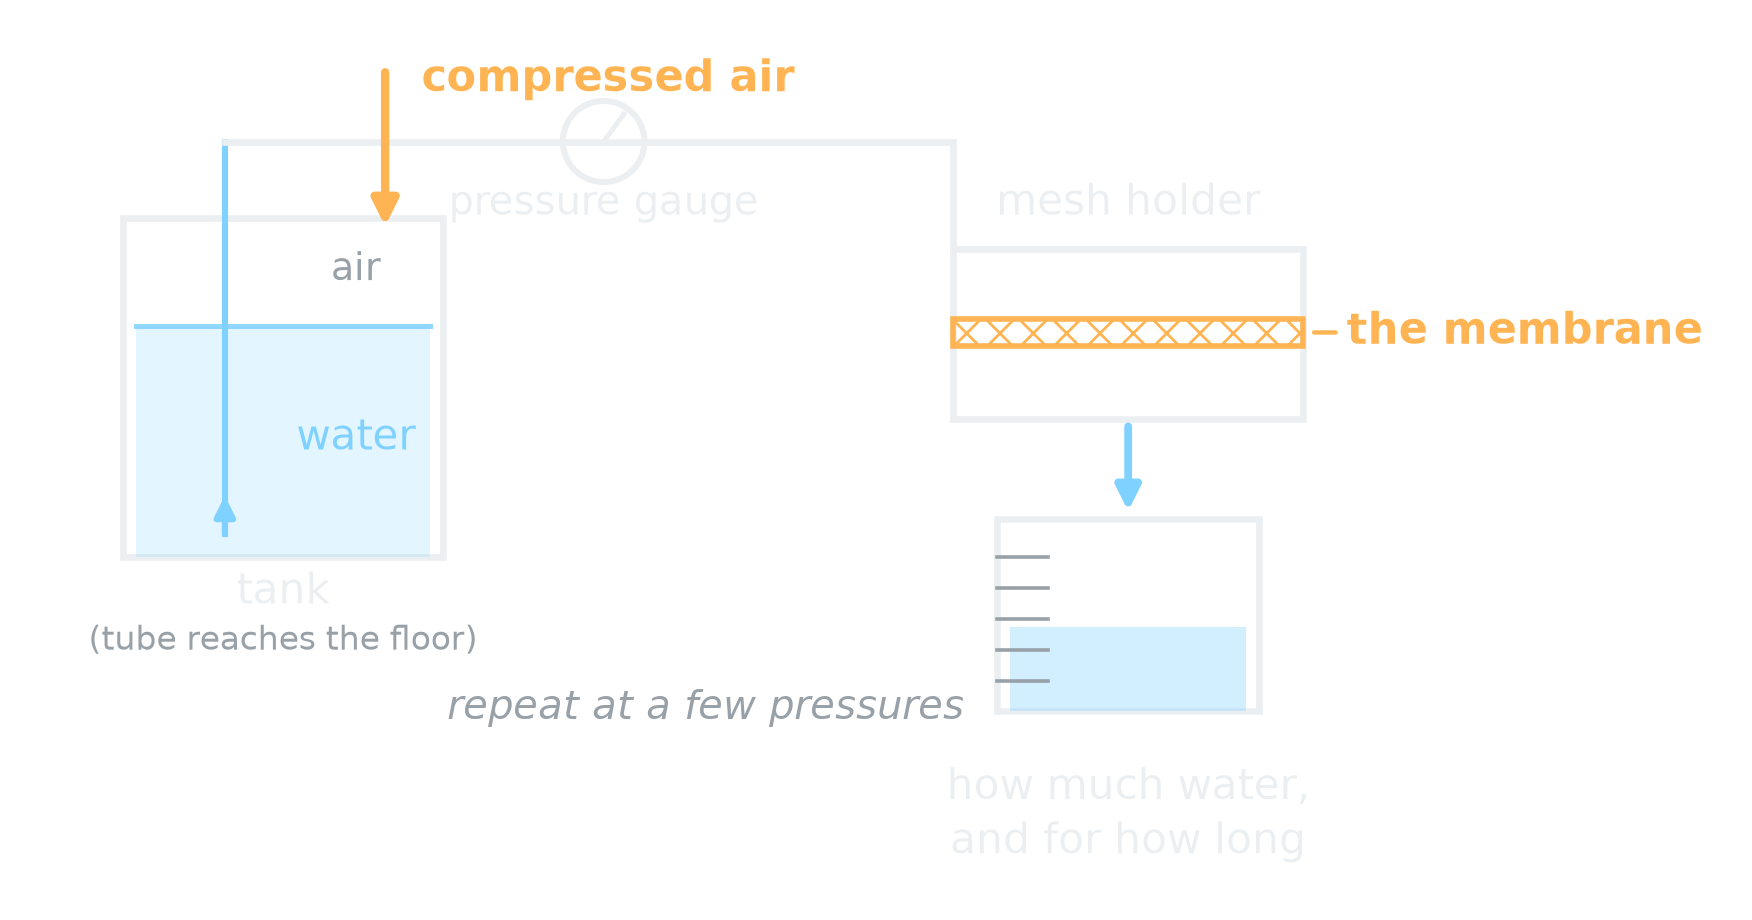
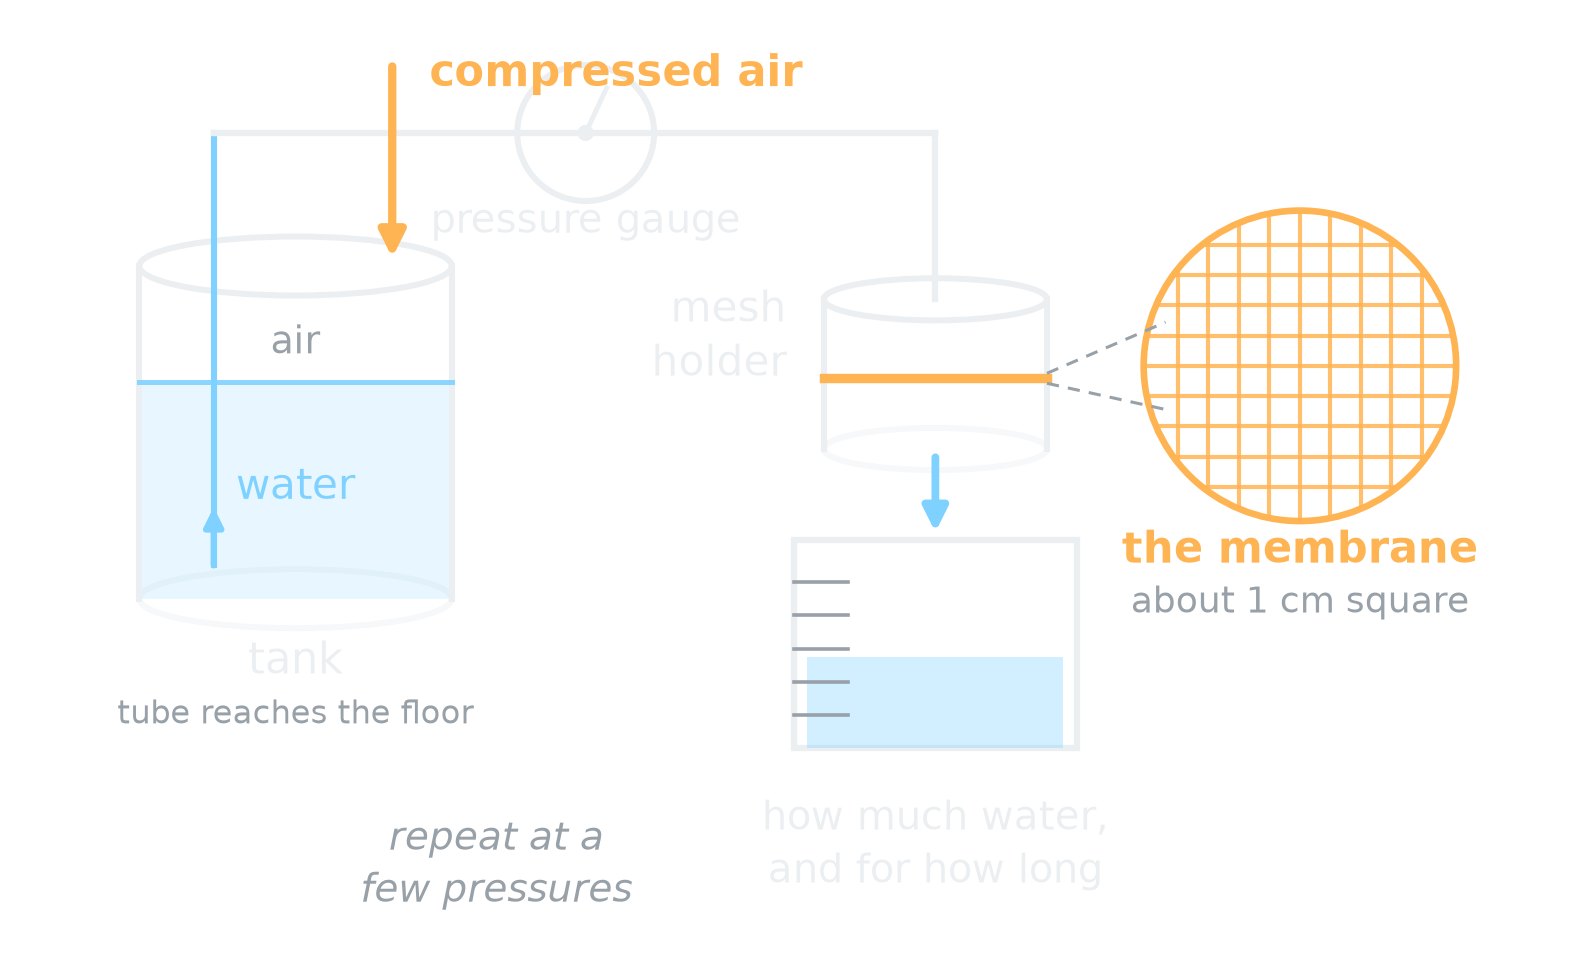
docs(talk): cylindrical holder, and zoom the specimen — it is only ~1 cm square
Adrián at the bench: the mesh holder is cylindrical, and the specimen is about
a centimetre square. Both mattered. The holder was drawn as a box, and the
membrane spanned its full width — at true scale it is a speck, so drawing it
full-width silently misrepresented the thing the whole experiment is about.

- Tank and holder are now cylinders (side view: body plus elliptical caps,
  the far cap dimmed for depth), with a helper that corrects for the axes not
  being equal-aspect — a plain Circle renders as an ellipse here.
- The specimen is a thin band at true proportion, with a zoom callout showing
  the weave magnified and 'about 1 cm square'. How small it is, is part of why
  the measurement is delicate, so it is worth a beat of the audience's
  attention rather than being hidden.

Caps started at ~1/3 of the width and swallowed the 'air' label; trimmed to
~1/5 and moved the holder label off the downpipe.

diff --git a/docs/talk/gen_talk_figs.py b/docs/talk/gen_talk_figs.py
@@ -217,87 +217,120 @@ def fig_system():
 # only — no electronics, no PID (that is the system figure's job): pressure in,
 # membrane, water out, measured over a known time.
 def fig_test_concept():
-    """THE ACTUAL PLUMBING, per Adrián at the bench — not one vessel with a
-    membrane inside it (two earlier drafts got that wrong, including one drawn
-    faithfully from the paper's own wording):
+    """The real flow path, per Adrián at the bench:
 
         air hose -> water TANK, air injected above the water
                     a dip tube runs from the top down to the tank floor
                  -> line with the pressure GAUGE
-                 -> MESH HOLDER, where the specimen actually lives
+                 -> CYLINDRICAL mesh holder; the specimen is only ~1 cm square
                  -> graduated cylinder
 
-    The tank and the holder are separate pieces joined by tubing. Left to right,
-    so it reads in the order the water travels."""
-    fig, ax = plt.subplots(figsize=(9.4, 5.0))
+    The tank and the holder are separate pieces joined by tubing. The specimen
+    gets a zoom callout because at holder scale it is nearly invisible — and how
+    small it is, is part of why the measurement is delicate."""
+    from matplotlib.patches import Ellipse
+
+    FIGW, FIGH = 9.6, 5.4
+    fig, ax = plt.subplots(figsize=(FIGW, FIGH))
     ax.set_xlim(0, 100)
     ax.set_ylim(0, 100)
     ax.axis("off")
+    ASPECT = FIGW / FIGH          # to make round things round on unequal axes
 
-    LINE_Y = 88                      # the tube running across the top
+    def cylinder(x, w, y0, y1, ec=INK, lw=2.2, cap=0.19):
+        """Vertical cylinder seen from the side: body + elliptical caps."""
+        eh = w * (FIGW / (FIGH * 100)) * 100 * cap     # cap height in data units
+        ax.plot([x, x], [y0, y1], color=ec, lw=lw)
+        ax.plot([x + w, x + w], [y0, y1], color=ec, lw=lw)
+        ax.add_patch(Ellipse((x + w / 2, y1), w, eh, fill=False, ec=ec, lw=lw))
+        ax.add_patch(Ellipse((x + w / 2, y0), w, eh, fill=False, ec=ec, lw=lw,
+                             alpha=0.45))
+        return eh
+
+    LINE_Y = 90
 
     # ---------------- water tank ----------------
-    TX0, TX1, TY0, TY1 = 5, 27, 34, 78
-    ax.add_patch(plt.Rectangle((TX0, TY0), TX1 - TX0, TY1 - TY0,
-                               fill=False, ec=INK, lw=2.4))
-    ax.add_patch(plt.Rectangle((TX0 + 0.9, TY0), TX1 - TX0 - 1.8, 30,
-                               fc=DATA, alpha=0.22, lw=0))
-    ax.plot([TX0 + 0.9, TX1 - 0.9], [TY0 + 30, TY0 + 30], color=DATA, lw=1.8,
-            alpha=0.85)
-    ax.text(21, 70, "air", fontsize=13.5, color=DIM, ha="center")
-    ax.text(21, 48, "water", fontsize=15, color=DATA, ha="center")
-    ax.text(16, 28, "tank", fontsize=15, color=INK, ha="center")
-    ax.text(16, 22, "(tube reaches the floor)", fontsize=12, color=DIM,
-            ha="center")
+    TX, TW, TY0, TY1 = 6, 21, 34, 74
+    cylinder(TX, TW, TY0, TY1)
+    ax.add_patch(plt.Rectangle((TX, TY0), TW, 26, fc=DATA, alpha=0.18, lw=0))
+    ax.add_patch(Ellipse((TX + TW / 2, TY0 + 26), TW, TW * 0.055 * 100 * 0.30 / 100 * 100 * 0,
+                         fill=False, lw=0))                      # (no cap on the water line)
+    ax.plot([TX, TX + TW], [TY0 + 26, TY0 + 26], color=DATA, lw=1.8, alpha=0.9)
+    ax.text(TX + TW / 2, 63.5, "air", fontsize=13.5, color=DIM, ha="center")
+    ax.text(TX + TW / 2, 46, "water", fontsize=15, color=DATA, ha="center")
+    ax.text(TX + TW / 2, 25, "tank", fontsize=15.5, color=INK, ha="center")
 
-    # air injected in
-    ax.annotate("", xy=(23, TY1 - 1), xytext=(23, 97),
+    ax.annotate("", xy=(TX + TW - 4, TY1 + 1), xytext=(TX + TW - 4, 98),
                 arrowprops=dict(arrowstyle="-|>", color=WARN, lw=3.0,
                                 shrinkA=0, shrinkB=0, mutation_scale=19))
-    ax.text(25.5, 96, "compressed air", fontsize=15.5, color=WARN,
+    ax.text(TX + TW - 1.5, 97, "compressed air", fontsize=15.5, color=WARN,
             fontweight="bold", va="center")
 
-    # dip tube: down to the floor, so pressure pushes water UP and out
-    ax.plot([12, 12], [LINE_Y, TY0 + 3], color=DATA, lw=2.2)
-    ax.annotate("", xy=(12, TY0 + 8), xytext=(12, TY0 + 3),
+    # dip tube: reaches the floor, so the air pushes water up and out
+    DIP = TX + 5
+    ax.plot([DIP, DIP], [LINE_Y, TY0 + 4], color=DATA, lw=2.2)
+    ax.annotate("", xy=(DIP, TY0 + 11), xytext=(DIP, TY0 + 4),
                 arrowprops=dict(arrowstyle="-|>", color=DATA, lw=2.2,
-                                shrinkA=0, shrinkB=0, mutation_scale=15))
-    # ---------------- line across, with the gauge ----------------
-    ax.plot([12, 62], [LINE_Y, LINE_Y], color=INK, lw=2.4)
-    from matplotlib.patches import Ellipse          # axes are not equal-aspect
-    ax.add_patch(Ellipse((38, LINE_Y), 5.6, 5.6 * (9.4 / 5.0),
-                         fill=False, ec=INK, lw=2.2))
-    ax.plot([38, 39.4], [LINE_Y, LINE_Y + 3.6], color=INK, lw=1.8)
-    ax.text(38, LINE_Y - 9.5, "pressure gauge", fontsize=14.5, color=INK,
+                                shrinkA=0, shrinkB=0, mutation_scale=14))
+    ax.text(TX + TW / 2, 19, "tube reaches the floor", fontsize=11.5,
+            color=DIM, ha="center")
+
+    # ---------------- line + gauge ----------------
+    HX, HW = 52, 15                                   # holder geometry
+    ax.plot([DIP, HX + HW / 2], [LINE_Y, LINE_Y], color=INK, lw=2.3)
+    GR = 4.6
+    ax.add_patch(Ellipse((36, LINE_Y), GR * 2, GR * 2 * ASPECT,
+                         fc="none", ec=INK, lw=2.2))
+    ax.plot([36, 37.4], [LINE_Y, LINE_Y + 5.4], color=INK, lw=1.8)
+    ax.add_patch(Ellipse((36, LINE_Y), 1.1, 1.1 * ASPECT, fc=INK, lw=0))
+    ax.text(36, LINE_Y - 12, "pressure gauge", fontsize=14.5, color=INK,
             ha="center")
 
-    # ---------------- mesh holder ----------------
-    HX0, HX1, HY0, HY1 = 62, 86, 52, 74
-    ax.plot([62, 62], [LINE_Y, HY1], color=INK, lw=2.4)
-    ax.add_patch(plt.Rectangle((HX0, HY0), HX1 - HX0, HY1 - HY0,
-                               fill=False, ec=INK, lw=2.4))
-    ax.add_patch(plt.Rectangle((HX0, 61.5), HX1 - HX0, 3.4,
-                               fc="none", ec=WARN, lw=2.0, hatch="xx"))
-    ax.text(74, 78.5, "mesh holder", fontsize=15, color=INK, ha="center")
-    ax.annotate("the membrane", xy=(HX1, 63.2), xytext=(89, 63.2),
-                textcoords="data", fontsize=15.5, color=WARN,
-                fontweight="bold", va="center",
-                arrowprops=dict(arrowstyle="-", color=WARN, lw=1.6,
-                                shrinkA=2, shrinkB=4))
+    # ---------------- cylindrical mesh holder ----------------
+    HY0, HY1 = 52, 70
+    ax.plot([HX + HW / 2, HX + HW / 2], [LINE_Y, HY1], color=INK, lw=2.3)
+    cylinder(HX, HW, HY0, HY1)
+    MESH_Y = 60.5
+    ax.plot([HX, HX + HW], [MESH_Y, MESH_Y], color=WARN, lw=3.4)
+    ax.text(HX - 2.5, 66, "mesh\nholder", fontsize=15, color=INK,
+            ha="right", va="center", linespacing=1.3)
 
-    # ---------------- down to the cylinder ----------------
-    ax.annotate("", xy=(74, 40), xytext=(74, 51),
+    # ---------------- zoom callout: the specimen is tiny ----------------
+    ZX, ZY, ZR = 84, 62, 10.5
+    ax.plot([HX + HW, ZX - ZR * 0.86], [MESH_Y + 0.6, ZY + ZR * 0.5],
+            color=DIM, lw=1.1, ls=(0, (4, 3)))
+    ax.plot([HX + HW, ZX - ZR * 0.86], [MESH_Y - 0.6, ZY - ZR * 0.5],
+            color=DIM, lw=1.1, ls=(0, (4, 3)))
+    zoom = Ellipse((ZX, ZY), ZR * 2, ZR * 2 * ASPECT, fc="none", ec=WARN, lw=2.4)
+    ax.add_patch(zoom)
+    for i in range(-4, 5):                            # the weave, magnified
+        off = i * 2.05
+        h, = ax.plot([ZX - ZR, ZX + ZR], [ZY + off * ASPECT, ZY + off * ASPECT],
+                     color=WARN, lw=1.5, alpha=0.85)
+        v, = ax.plot([ZX + off, ZX + off], [ZY - ZR * ASPECT, ZY + ZR * ASPECT],
+                     color=WARN, lw=1.5, alpha=0.85)
+        h.set_clip_path(zoom)
+        v.set_clip_path(zoom)
+    ax.text(ZX, ZY - ZR * ASPECT - 5, "the membrane", fontsize=15.5, color=WARN,
+            fontweight="bold", ha="center")
+    ax.text(ZX, ZY - ZR * ASPECT - 11, "about 1 cm square", fontsize=13,
+            color=DIM, ha="center")
+
+    # ---------------- graduated cylinder ----------------
+    ax.annotate("", xy=(HX + HW / 2, 42), xytext=(HX + HW / 2, 51),
                 arrowprops=dict(arrowstyle="-|>", color=DATA, lw=2.8,
                                 shrinkA=0, shrinkB=0, mutation_scale=18))
-    ax.add_patch(plt.Rectangle((65, 14), 18, 25, fill=False, ec=INK, lw=2.4))
-    ax.add_patch(plt.Rectangle((65.9, 14), 16.2, 11, fc=DATA, alpha=0.35, lw=0))
-    for y in (18, 22, 26, 30, 34):
-        ax.plot([65, 68.5], [y, y], color=DIM, lw=1.3)
-    ax.text(74, 8, "how much water,\nand for how long", fontsize=15,
+    CX, CW = HX - 2, 19
+    ax.add_patch(plt.Rectangle((CX, 16), CW, 25, fill=False, ec=INK, lw=2.3))
+    ax.add_patch(plt.Rectangle((CX + 0.9, 16), CW - 1.8, 11, fc=DATA,
+                               alpha=0.35, lw=0))
+    for y in (20, 24, 28, 32, 36):
+        ax.plot([CX, CX + 3.6], [y, y], color=DIM, lw=1.3)
+    ax.text(CX + CW / 2, 11, "how much water,\nand for how long", fontsize=14.5,
             color=INK, ha="center", va="top", linespacing=1.35)
 
-    ax.text(45, 13, "repeat at a few pressures", fontsize=14.5, color=DIM,
-            ha="center", style="italic")
+    ax.text(30, 8, "repeat at a\nfew pressures", fontsize=14, color=DIM,
+            ha="center", va="top", style="italic", linespacing=1.3)
     save(fig, "talk_test_concept.png")
 
 
